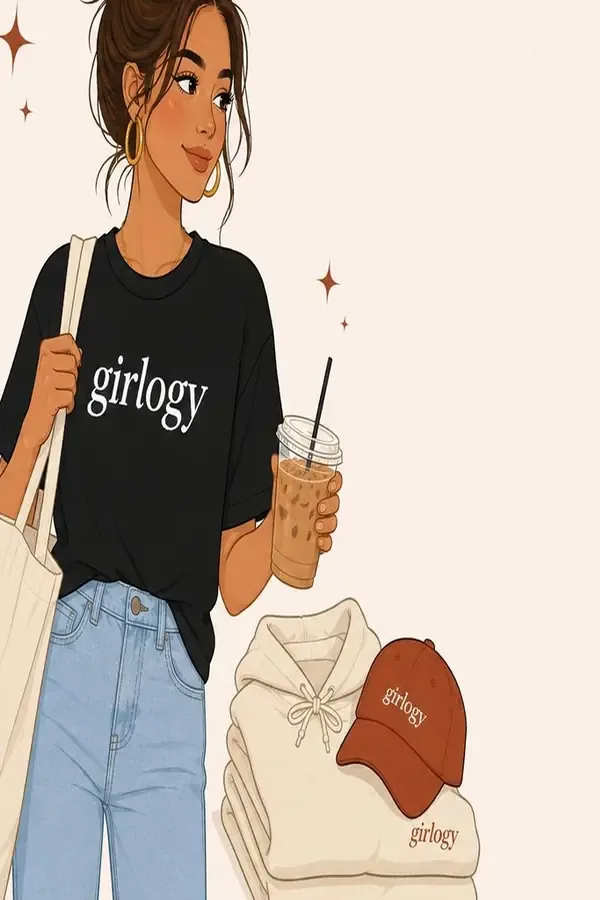
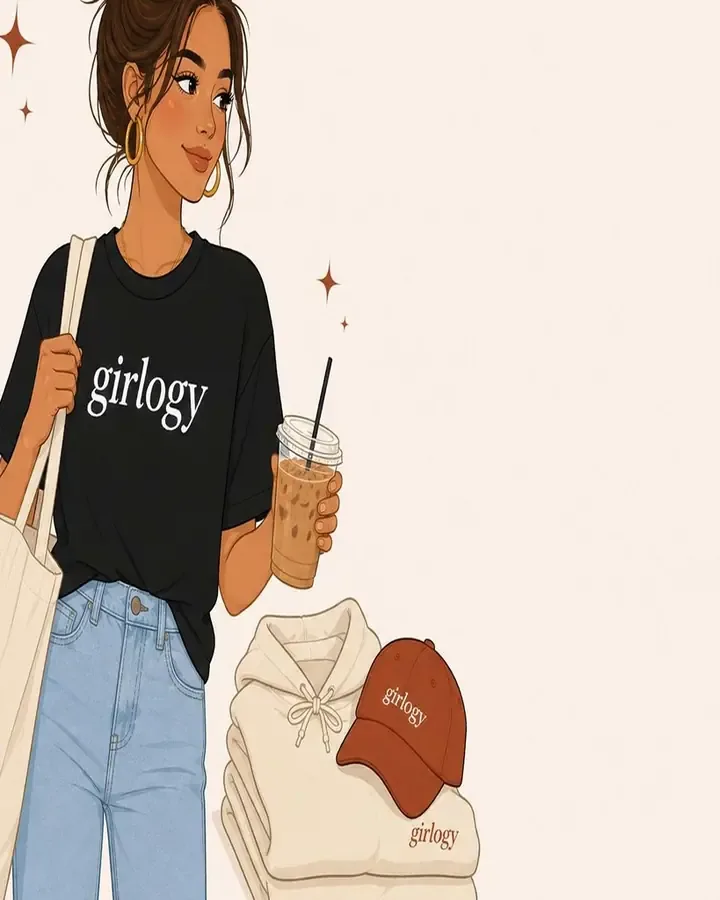
Hero: framed photo inside the page width, smaller quote card
The photo pinned to the screen edge looked too far right and too tall.
Show it instead as a framed 4:5 picture (468px tall) centred in the right
half of the page width, lined up with the header. The banner keeps a fixed
540px height. The quote card is smaller and hangs over the rust to the left
of the photo so the drawing stays visible; it moves inside the photo on
narrow laptops so it never covers the text. Phone layout unchanged.

Claude-Session: https://claude.ai/code/session_01SH4pLpx2tszdwFEQKT2NKi

diff --git a/css/style.css b/css/style.css
@@ -74,7 +74,7 @@ nav.depts > button.sale{color:var(--rust)}
 h1,h2{font-weight:500;letter-spacing:-.01em}
 .serif{font-family:var(--serif);font-style:italic;font-weight:400}
 .hero{position:relative;background:#B4553A;color:#FBF3EC;margin:0 0 8px;overflow:hidden}
-.hero .in{display:grid;grid-template-columns:1fr 1fr;min-height:clamp(520px,38vw,720px);align-items:center}
+.hero .in{display:grid;grid-template-columns:1fr 1fr;min-height:540px;align-items:center}
 .hero .copy{padding:48px 24px 48px 0}
 .hero h1{font-family:var(--serif);font-style:italic;font-weight:400;font-size:clamp(40px,5.4vw,76px);line-height:1;margin:0 0 18px;max-width:11ch}
 .hero p{font-size:17px;max-width:40ch;margin:0 0 28px;opacity:.92}
@@ -115,17 +115,15 @@ h1,h2{font-weight:500;letter-spacing:-.01em}
 .colors button.ph i{position:absolute;right:4px;bottom:4px;width:14px;height:14px;border-radius:50%;border:1.5px solid #fff;box-shadow:0 0 0 1px rgba(0,0,0,.2)}
 .gal .full{grid-column:1/-1;aspect-ratio:1/1}
 .im > img{position:absolute;inset:0;width:100%;height:100%;object-fit:cover}
-/* Portrait photo (2:3) pinned to the right edge of the screen, as tall as the banner and at most
-   half the screen wide, so it is never stretched and leaves no empty space. */
-.hero .art{position:absolute;top:0;right:0;bottom:0;aspect-ratio:2/3;max-width:50vw;background:#FAF0E8}
-.hero .heroimg{position:absolute;top:0;left:0;height:100%;width:auto;max-width:none}
-/* Text sits centred in the rust panel left of the photo */
-@media (min-width:821px){
-  .hero .in{max-width:none;padding:0 calc(min(clamp(520px,38vw,720px) * 2 / 3, 50vw) + 24px) 0 24px;grid-template-columns:1fr}
-  .hero .copy{justify-self:center;padding:48px 0}
-}
-.hero .art .card1{top:auto;bottom:40px;left:-60px}
-@media (min-width:821px) and (max-width:960px){.hero .art .card1{left:14px}}
+/* Photo shown as a framed picture (4:5) centred in the right half of the page width,
+   lined up with the header; the quote card overlaps its lower-left corner. */
+.hero .art{align-self:center;justify-self:center;position:relative;margin:36px 0}
+.hero .heroimg{display:block;height:468px;width:auto;max-width:100%;object-fit:cover;object-position:left top;border-radius:4px;box-shadow:0 18px 40px rgba(40,15,5,.25)}
+.hero .art .card1{top:auto;bottom:24px;left:-120px;width:200px;padding:14px 16px}
+.hero .art .card1 q{font-size:18px}
+.hero .art .card1 small{font-size:20px;margin-top:6px}
+@media (min-width:821px) and (max-width:1320px){.hero .art .card1{left:-40px}}
+@media (min-width:821px) and (max-width:960px){.hero .art .card1{left:12px;bottom:12px}}
 .tile .cap{position:relative;padding:28px;width:100%}
 .tile .cap b{display:block;font-family:var(--serif);font-style:italic;font-weight:400;font-size:38px;line-height:1.05;margin-bottom:10px}
 .tile .cap span{text-decoration:underline;text-underline-offset:4px;font-weight:500}
@@ -278,8 +276,8 @@ footer .base{border-top:1px solid var(--line);margin-top:34px;padding-top:18px;d
   .head{grid-template-columns:auto 1fr auto}
   .logo{font-size:32px;justify-self:center}
   .hero .in,.duo,.pdp,.bagp{grid-template-columns:1fr}
-  .hero .art{position:relative;aspect-ratio:auto;max-width:none;min-height:420px;margin:0 -24px;overflow:hidden}
-  .hero .heroimg{width:100%;object-fit:cover;object-position:top}
+  .hero .art{justify-self:stretch;align-self:stretch;min-height:420px;margin:0 -24px;overflow:hidden}
+  .hero .heroimg{position:absolute;inset:0;width:100%;height:100%;max-width:none;object-fit:cover;object-position:top;border-radius:0;box-shadow:none}
   .hero .art .card1{left:14px;bottom:14px}
   .hero .copy{padding:40px 0 10px}
   .grid{grid-template-columns:repeat(2,minmax(0,1fr))}
